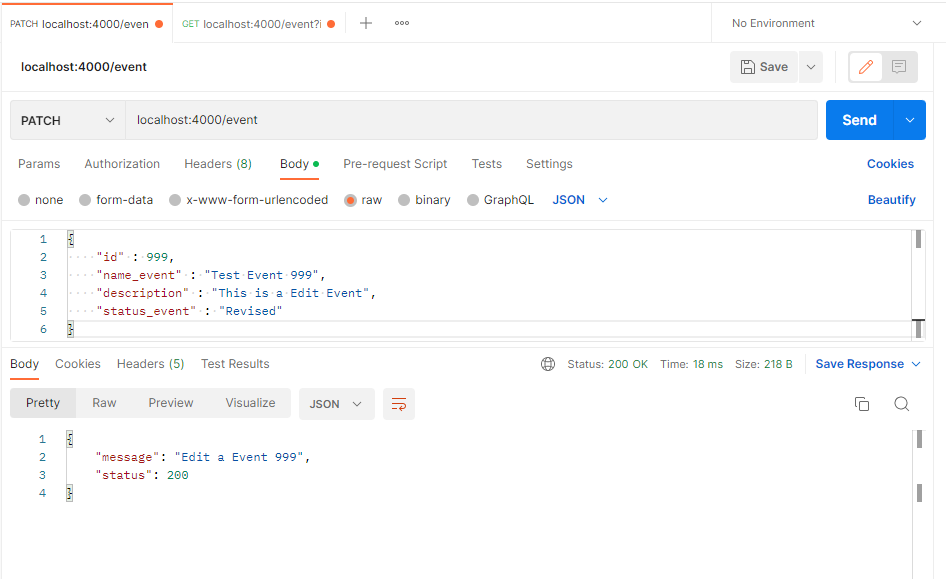
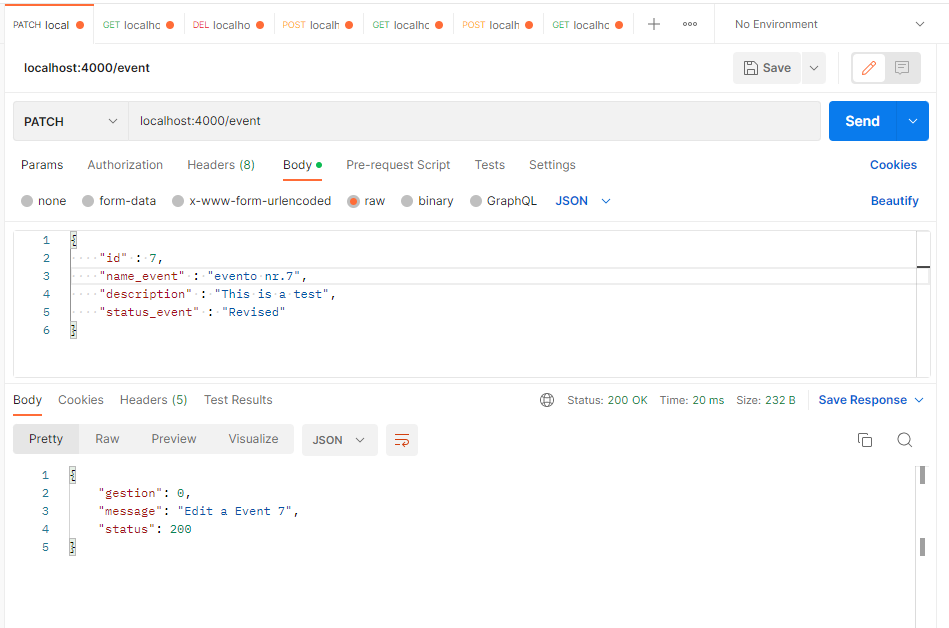
test insert, delete, update, get

diff --git a/EventController.py b/EventController.py
@@ -2,7 +2,6 @@
 FelipdelosH
 2023
 """
-from EventModel import *
 from Database import *
 
 class EventController:
@@ -199,9 +198,20 @@ class EventController:
 
         if params_status["status"]:
             edit_satus = self.dbConector.editEvent(event_model_params)
-            return {"status": 200, "message": edit_satus["message"] }
+            message = edit_satus["message"]
+            gestion = 0
+
+            modify_satus = "status_event" in event_model_params
+
+            if modify_satus:
+                # Notify the user if need gestion
+                if self.eventRequiresGestion(event_model_params["id"]):
+                    gestion = 1
+                    message = message + ", Note: Requires GESTION. "
+
+            return {"status": 200, "gestion": gestion , "message": message }
         else:
-            return {"status": 401, "message" : params_status["message"]}
+            return {"status": 401, "gestion": 0 , "message" : message }
 
 
     def insertGestion(self, json):
@@ -280,3 +290,29 @@ class EventController:
                 for i in data:
                     self.insertEvent(i)
 
+                datag = []
+                g1 = {"type_event": "clase A"}
+                datag.append(g1)
+                g2 = {"type_event": "clase D"}
+                datag.append(g2)
+
+                for i in datag:
+                    self.insertGestion(i)
+
+    def eventRequiresGestion(self, event_id):
+        """
+        Search in all types of events with gestions
+        if macth return true
+        """
+        all_gesgion_events = self.dbConector.getAllTypeOfGestionEvent()["data"]
+        event = self.dbConector.getEventByID(event_id)
+
+        try:
+            for i in all_gesgion_events:
+                if i['type_event'] == event["data"][0]["type"]:
+                    return True
+
+        except:
+            return False
+
+        return False

diff --git a/main.py b/main.py
@@ -119,10 +119,10 @@ def gestion():
         return insert_status
 
     if request.method == 'DELETE':
-        return("DELETE")
+        return("DELETE its in construction")
 
     if request.method == 'PATCH':
-        return("PATCH")
+        return("PATCH its in construction")
 
 
 #Start

diff --git a/Database.py b/Database.py
@@ -328,3 +328,4 @@ class Database:
 
         self.conection.close()
         return information
+

diff --git a/README.md b/README.md
@@ -139,6 +139,22 @@ Note: Always you need a id of event
 
 ![Edit a event](Docs/editEvent.png)
 
+## Edit status of event
+
+Enter the url localhost:4000/event method PATCH and send the JSON to edit a event, the servers response ith  the information in Json file.
+
+{
+    "id" : 2,
+    "status_event" : "Revised"
+}
+
+
+The server return if the event need gestion.
+
+![Example event to requires gestion](Docs/event2RequiresGestion.png)
+
+
+
 ## Delete a Event
 
 Enter the url localhost:4000/event method DELETE and send the JSON a event, the servers response ith  the information in Json file.
